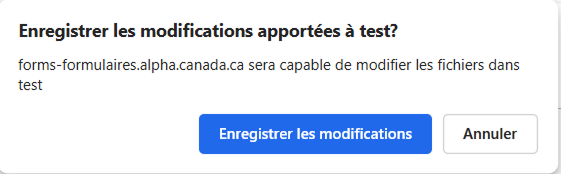
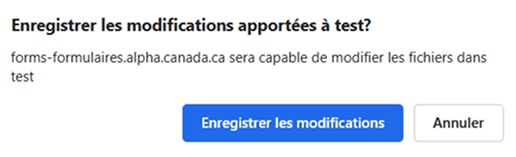
img

diff --git a/app/(gcforms)/[locale]/(form administration)/forms/browser-check/components/PermissionsPopover.tsx b/app/(gcforms)/[locale]/(form administration)/forms/browser-check/components/PermissionsPopover.tsx
@@ -48,6 +48,7 @@ export const PermissionsPopover = ({ locale }: { locale: string }) => {
             src={`/img/file-api-read-${locale}.png`}
             alt={t("permissionsHelp.viewImageAlt")}
             width={560}
+            height={160}
             className="w-full"
           />
           <figcaption className="mt-3 text-sm text-gray-600">
@@ -60,6 +61,7 @@ export const PermissionsPopover = ({ locale }: { locale: string }) => {
             src={`/img/file-api-edit-${locale}.png`}
             alt={t("permissionsHelp.editImageAlt")}
             width={560}
+            height={160}
             className="w-full"
           />
           <figcaption className="mt-3 text-sm text-gray-600">
